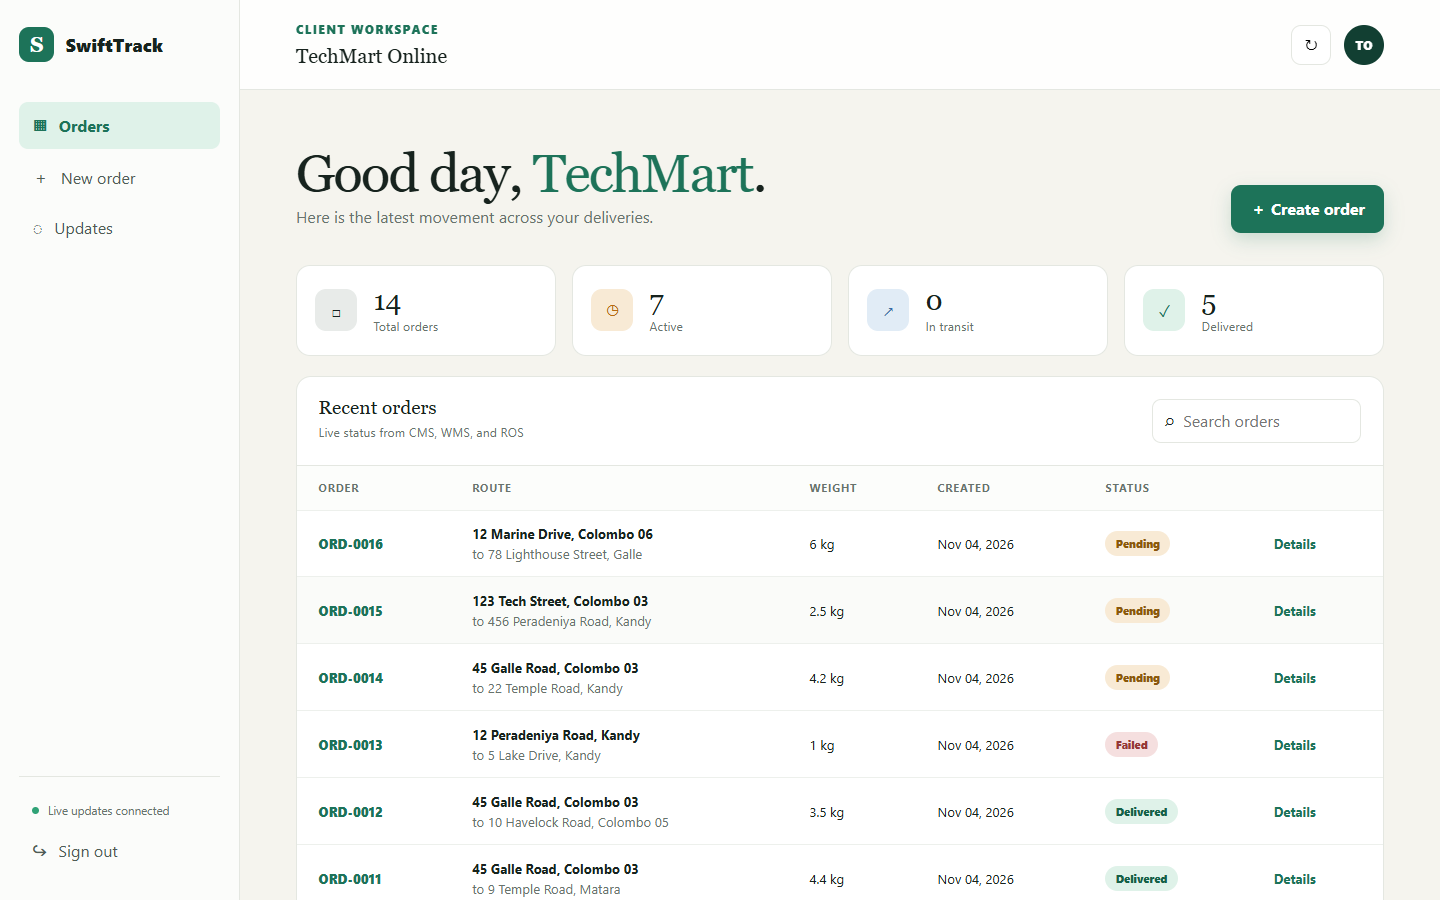
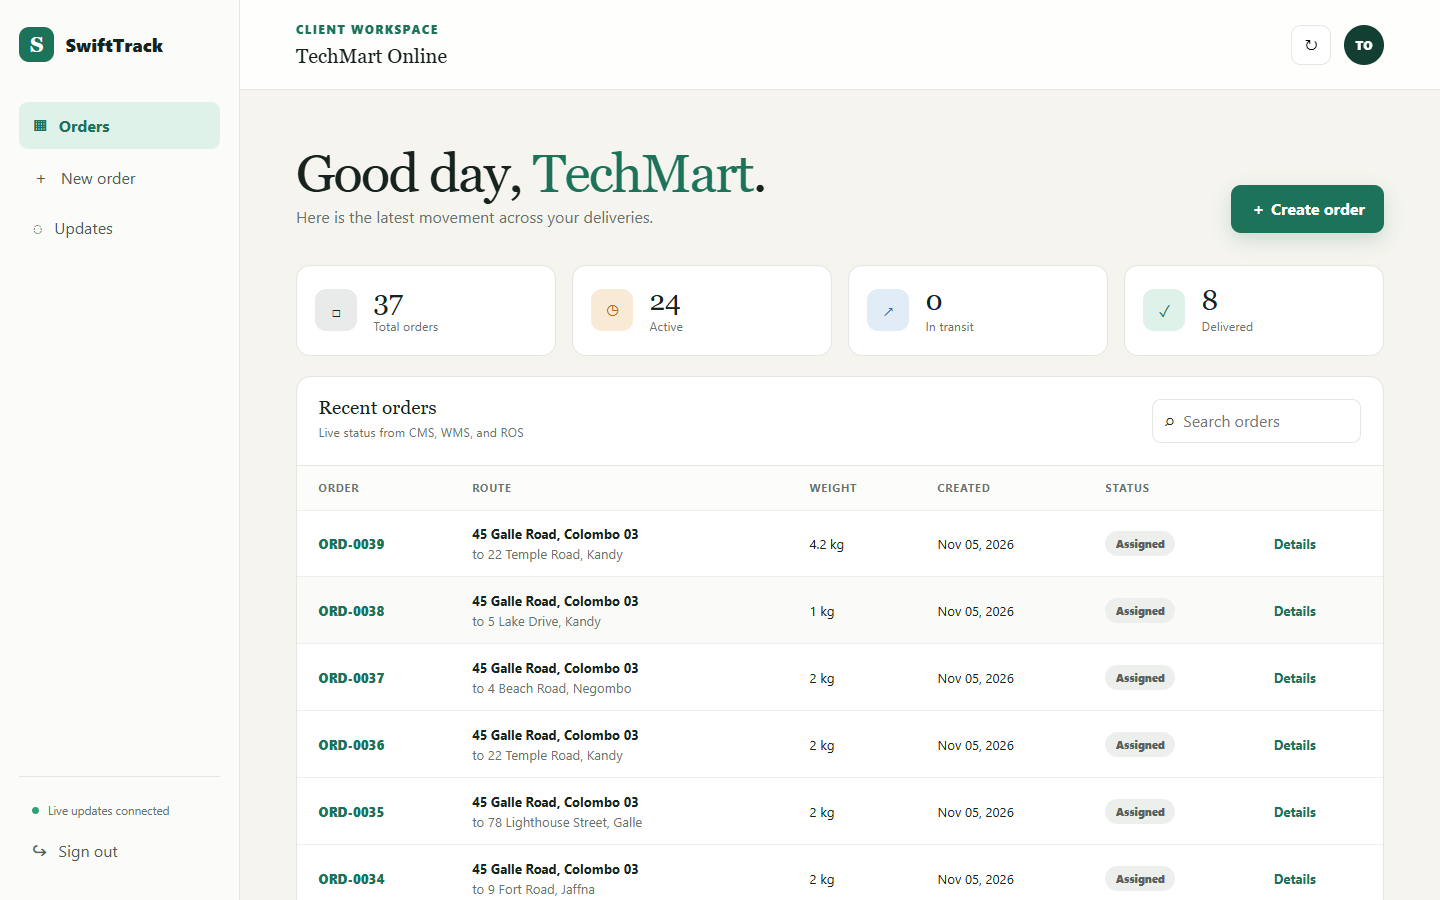
docs(readme): document the fixes and refresh test results
Add the later fixes, CI badge and order details screenshot. Remove the
limitations that are now fixed and update results from the latest run.

diff --git a/README.md b/README.md
@@ -10,7 +10,7 @@
 ![PostgreSQL](https://img.shields.io/badge/PostgreSQL-16-4169E1?logo=postgresql&logoColor=white)
 ![Docker](https://img.shields.io/badge/Docker_Compose-8_containers-2496ED?logo=docker&logoColor=white)
 ![WebSocket](https://img.shields.io/badge/WebSocket-live_events-010101)
-![E2E](https://img.shields.io/badge/E2E_checks-14%2F14_passing-2EA44F)
+[![E2E](https://github.com/gayashan-indrasankha/Middleware-Architecture-for-SwiftLogistics/actions/workflows/e2e.yml/badge.svg)](https://github.com/gayashan-indrasankha/Middleware-Architecture-for-SwiftLogistics/actions/workflows/e2e.yml)
 
 <br>
 
@@ -29,16 +29,16 @@
 | **What it is** | An integration platform for a fictional logistics company whose three core systems speak incompatible protocols. Clients and drivers get one clean API and live updates. |
 | **Why it's hard** | One order is a *distributed transaction* across SOAP/XML, REST and raw TCP, with no shared protocol and services that can go down independently. |
 | **My role** | **Integration & QA engineer** in a team of six (university module IS3208, Middleware Architecture). I got the separately built services working together, wrote the end-to-end test suite, and found and fixed the cross-service bugs that blocked the core flow. |
-| **Proof it works** | 14/14 end-to-end checks pass, and a saga finishes in about 45 ms on a local run. Orders created during a backend outage [finish processing when it recovers](#-verified-behaviour). |
+| **Proof it works** | 24 automated checks run on every pull request, and a saga finishes in under 50 ms on a local run. Orders created during a backend outage [finish processing when it recovers](#-verified-behaviour). |
 
 ### What this project shows about me
 
 | Skill | Where you can see it |
 |---|---|
 | **Debugging across service boundaries** | Traced a stalled transaction to a mismatch between what one service published and what another expected ([details](#-my-contribution-integration-testing--bug-fixing)) |
-| **Test automation** | A [scripted E2E suite](https://github.com/gayashan-indrasankha/Middleware-Architecture-for-SwiftLogistics/blob/2325a68/plans/test-e2e.ps1) covering login → order → saga → route → warehouse → delivery → failure |
+| **Test automation** | A scripted [E2E suite](tests/e2e.ps1) covering login → order → saga → route → warehouse → delivery → failure, running in CI |
 | **Distributed systems** | Saga pattern, publish/subscribe, durable messaging, eventual consistency |
-| **Multi-tenant awareness** | Spotted delivery events going to every connected client and scoped them to the right recipient |
+| **Multi-tenant awareness** | Scoped events that were reaching every connected client to the right recipient, with a [test](tests/ws-isolation.mjs) that proves it |
 | **Infrastructure** | Docker Compose health-check tuning to make cold starts reliable |
 | **Engineering honesty** | A public [list of known limitations](#-known-limitations--what-id-do-next) with the production fix for each |
 
@@ -188,7 +188,8 @@ stateDiagram-v2
 <td><img src="docs/screenshots/04-client-live-updates.png" alt="Stack of live WebSocket notifications for one order"><br><sub><b>Live events.</b> Saga steps for one order arrive within milliseconds, with no refresh.</sub></td>
 </tr>
 <tr>
-<td colspan="2" align="center"><img src="docs/screenshots/09-client-delivery-event.png" alt="Client live updates panel showing a delivered event" width="70%"><br><sub><b>Closing the loop.</b> When a driver submits proof of delivery, the owning client is told immediately.</sub></td>
+<td><img src="docs/screenshots/09-client-delivery-event.png" alt="Client live updates panel showing a delivered event"><br><sub><b>Closing the loop.</b> When a driver submits proof of delivery, the owning client is told immediately.</sub></td>
+<td><img src="docs/screenshots/10-client-order-details.png" alt="Order details dialog with warehouse location, driver, ETA and transaction step"><br><sub><b>One view of three systems.</b> Warehouse, route and saga data for a single order.</sub></td>
 </tr>
 </table>
 
@@ -266,53 +267,67 @@ The delivery endpoint now matches a stop on either `order_code` or `order_id`. P
 
 ### 🧪 End-to-end test suite
 
-I wrote a [PowerShell E2E suite](https://github.com/gayashan-indrasankha/Middleware-Architecture-for-SwiftLogistics/blob/2325a68/plans/test-e2e.ps1) that drives the system through its public API, exactly as a real client and driver would:
+I wrote a [PowerShell E2E suite](tests/e2e.ps1) that drives the system through its public API, exactly as a real client and driver would:
 
 ```mermaid
 flowchart LR
     A[Health] --> B[Client login<br/>via SOAP] --> C[Create order] --> D[Poll until<br/>assigned]
     D --> E[Check saga<br/>audit log] --> F[Driver login] --> G[Fetch route]
     G --> H[Update package<br/>via TCP] --> I[Deliver with<br/>signature] --> J[Verify<br/>delivered]
-    J --> K[Inject failure] --> L[Verify<br/>compensation]
+    J --> K[Inject failure] --> L[Verify<br/>compensation] --> M[Re-sequence<br/>route]
 ```
+
+### 🛠 Later fixes
+
+Writing down the project's known limitations led to a second round of fixes. Each one has a test that failed before the fix:
+
+| Problem | Fix | Test |
+|---|---|---|
+| Re-sequencing a route violated a unique constraint, which left new orders `pending` after their saga completed | [Save the whole route in one locked transaction](ros-service/app.js) | [`tests/e2e.ps1`](tests/e2e.ps1), step 11 |
+| Other clients received new-order, route and package events that weren't theirs | [Remove the broadcast fallback and target each event](api-gateway/app.js) | [`tests/ws-isolation.mjs`](tests/ws-isolation.mjs) |
+
+The order details dialog also now shows real warehouse, driver, ETA and transaction data, and both test suites run in [GitHub Actions](.github/workflows/e2e.yml).
 
 ---
 
 ## ✅ Verified behaviour
 
-These results come from the system running locally in Docker Desktop on 4 November 2026, after a fresh `docker compose up --build`. They are observations from a single machine, **not load-test benchmarks**.
+These results come from the system running locally in Docker Desktop on 5 November 2026, after `docker compose up --build`. They are observations from a single machine, **not load-test benchmarks**.
 
-### End-to-end suite: 14/14 checks passing
+### Test suites: 24/24 checks passing (19 E2E, 5 isolation)
 
 ```text
 ==> STEP 2 -- Create New Order
-  [PASS] Order created: ORD-0012 (status: pending)
+  [PASS] Order created: ORD-0041 (status: pending)
 ==> STEP 4 -- Verify Saga Transaction Logs
        Saga steps: CMS_CREATE, ROS_ASSIGN, WMS_ALLOCATE, SAGA_COMPLETE
 ==> STEP 7 -- Update Package Status via WMS TCP Bridge
-  [PASS] Package status updated to 'loaded' (barcode: BC-ORD-0012)
+  [PASS] Package status updated to 'loaded' (barcode: BC-ORD-0041)
 ==> STEP 9 -- Verify Final Order Status
-  [PASS] Order ORD-0012 is now 'delivered' -- END-TO-END FLOW COMPLETE
+  [PASS] Order ORD-0041 is now 'delivered' -- END-TO-END FLOW COMPLETE
 ==> STEP 10 -- Saga Compensation / Fallback Test
   [PASS] SAGA_COMPENSATION step found in transaction log - fallback mechanism verified OK
+==> STEP 11 -- Orders Reach 'assigned' When The Route Is Re-sequenced
+  [PASS] Persisted route matches the driver's route (27 stops)
 
-  E2E Order Flow    : PASSED (ORD-0012)
-  Saga Logs         : PASSED -- CMS_CREATE, ROS_ASSIGN recorded
+  E2E Order Flow    : PASSED (ORD-0041)
+  Saga Logs         : PASSED -- all saga steps recorded
   Delivery + POD    : PASSED -- signature captured
-  Saga Compensation : PASSED -- ORD-0013 rolled back
+  Saga Compensation : PASSED -- ORD-0042 rolled back
+  Re-sequencing     : PASSED -- all orders assigned
 ```
 
-<sub>Excerpt. Timings for the saga below come from the `transaction_logs` table.</sub>
+<sub>Excerpt. The timings below come from the `transaction_logs` table.</sub>
 
-### A saga completes in about 45 ms
+### A saga completes in under 50 ms
 
 ```text
  order_code |   saga_step   | ms after order created
 ------------+---------------+-----------------------
- ORD-0017   | CMS_CREATE    | 20
- ORD-0017   | ROS_ASSIGN    | 26
- ORD-0017   | WMS_ALLOCATE  | 44
- ORD-0017   | SAGA_COMPLETE | 46
+ ORD-0041   | CMS_CREATE    | 16
+ ORD-0041   | ROS_ASSIGN    | 20
+ ORD-0041   | WMS_ALLOCATE  | 30
+ ORD-0041   | SAGA_COMPLETE | 34
 ```
 
 ### Orders survive a backend outage
@@ -322,12 +337,10 @@ Tested by stopping ROS mid-flow. The broker holds the message until the consumer
 | Step | Action | Result |
 |---|---|---|
 | 1 | `docker stop swift-ros` | ROS is offline |
-| 2 | Client creates `ORD-0014` | ✅ **Accepted.** The client isn't blocked by the outage |
+| 2 | Client creates `ORD-0039` | ✅ **Accepted.** The client isn't blocked by the outage |
 | 3 | Inspect state | WMS step done. `ros_order_events` holds **1 message with 0 consumers** |
 | 4 | `docker start swift-ros` | ROS reconnects and consumes the waiting message |
-| 5 | Check the saga log | ✅ `ROS_ASSIGN` and `SAGA_COMPLETE` recorded with no manual action |
-
-<sub>The order's own status stayed `pending` in this run because of the route persistence issue listed under [known limitations](#-known-limitations--what-id-do-next).</sub>
+| 5 | Check the saga log | ✅ `ROS_ASSIGN` and `SAGA_COMPLETE` recorded and the order is `assigned`, with no manual action |
 
 ### Protocol translation on the wire
 
@@ -360,14 +373,13 @@ This is an academic project, and I'd rather state its gaps than hide them. Each 
 
 | Area | Current behaviour | Production fix |
 |---|---|---|
-| **Route persistence** | Re-sequencing a route can violate `UNIQUE (route_id, sequence_index)`. The route stays in ROS memory, but the order remains `pending` in the database even after its saga completes. | Make the constraint `DEFERRABLE` and rewrite stops in one transaction |
 | **Compensation** | Runs only through a fault-injection endpoint. It marks the order failed and alerts the client, but doesn't undo ROS or WMS work. | Emit failure events from each service, and add real compensating actions plus timeouts |
 | **Failed messages** | Consumers `nack` without requeue, so a message that fails processing is discarded. | Dead-letter queues, bounded retries and alerting |
 | **Saga state** | Steps are audited in PostgreSQL, but in-progress state lives in gateway memory and isn't reloaded on restart. | Rehydrate active sagas from `transaction_logs` |
-| **Event isolation** | I scoped delivery events, but `PACKAGE_STATUS_UPDATED` and `ROUTE_UPDATED` still broadcast, and WebSocket registration isn't authenticated. | Authenticate sockets with the JWT and derive recipients from it |
+| **WebSocket auth** | Events are now targeted, but a socket can still register under any client or driver ID. | Authenticate sockets with the JWT and derive the recipient from it |
 | **Routing** | Every order goes to one driver (`DRV001`). Coordinates are estimated from the address, and the form's priority and coordinates aren't forwarded. | Driver allocation, a geocoding service and priority-aware routing |
 | **Auth & secrets** | Driver login uses a demo account list, secrets have dev defaults, and any signed-in user can call the failure endpoint. | Database-backed drivers, a secrets manager, admin-only test endpoints |
-| **Test depth** | E2E coverage only, with no CI pipeline, unit tests or load tests. | Contract tests between services (these would have caught Bug 1), CI, and a load test with k6 |
+| **Test depth** | E2E and isolation tests run in CI, but there are no unit, contract or load tests. | Contract tests between services (these would have caught Bug 1) and a load test with k6 |
 
 ---
 
@@ -505,6 +517,8 @@ Events: `ORDER_CREATED`, `ROS_PROCESSING_COMPLETE`, `WMS_PROCESSING_COMPLETE`, `
 ├── client-portal/    # Client web dashboard (Nginx)
 ├── driver-app/       # Driver mobile-first PWA (Nginx)
 ├── database/         # PostgreSQL schema and seed data
+├── tests/            # E2E suite and WebSocket isolation test
+├── .github/workflows/ # CI: runs both test suites against the full stack
 ├── docs/screenshots/ # Images used in this README
 ├── docker-compose.yml
 └── ARCHITECTURE.md   # Integration pattern deep dive
@@ -520,7 +534,7 @@ SwiftTrack was a six-person group assignment for **IS3208 Middleware Architectur
 
 | Contributor | Main contribution |
 |---|---|
-| **Gayashan Indrasankha** (me) | Phase 6: full-system integration, E2E test suite, cross-service bug fixes |
+| **Gayashan Indrasankha** (me) | Phase 6: full-system integration, E2E test suite, cross-service bug fixes, later fixes and CI |
 | **Viman Fernando** | Project planning, work distribution, documentation |
 | **Vidurshan** | Database schema, Docker Compose, gateway scaffold, ROS persistence |
 | **Hesara Dihindu** | Core backend services, gateway protocol bridging |
